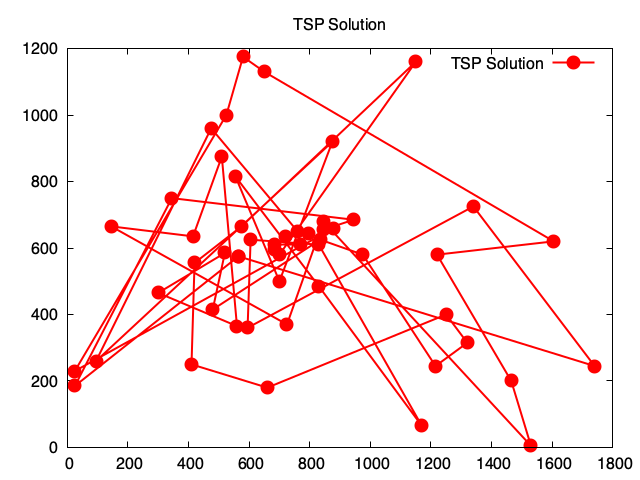
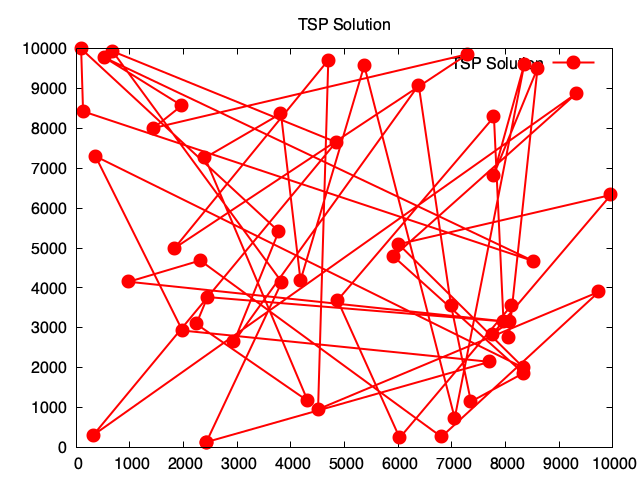
Corrections class 03/03

diff --git a/src/main.c b/src/main.c
@@ -1,8 +1,10 @@
 #include <cplex.h>
 #include <tsp_utilities.h>
 #include <sys/time.h>
+#include <chrono.h>
 
 // Function declarations
+double second();
 void free_instance(instance *inst);
 void parse_command_line(int argc, char **argv, instance *inst);
 void read_input(instance *inst);
@@ -11,13 +13,9 @@ int main(int argc, char **argv) {
     if ( argc < 2 ) { printf("Wrong command line parameters\n"); exit(1); }       
 	if ( VERBOSE >= 2 ) { for (int a = 0; a < argc; a++) printf("%s ", argv[a]); printf("\n"); }
     
-    struct timeval start, end;
-    double elapsed_time;
-
-    gettimeofday(&start, NULL); // Start time
-
+    double t1 = second(); // Start time
     instance inst;
-    if ( VERBOSE >= 4000 ) { printf("Instance created!\n"); }
+    if ( VERBOSE >= 4000 ) { printf("Instance allocated!\n"); }
     
     // Parse the command line parameters
     parse_command_line(argc, argv, &inst);
@@ -30,22 +28,23 @@ int main(int argc, char **argv) {
     }
     else {
         if ( VERBOSE >= 100) { printf("Random generator\n"); }
-        random_generator(&inst);
+        random_instance_generator(&inst);
     }
 
     // Set the solution as the sequence of nodes
-    inst.solution = (int *) malloc(inst.nnodes * sizeof(int *));
-    for (size_t i = 0; i < inst.nnodes; i++) {
-        inst.solution[i] = i;
+    inst.best_solution = (int *) malloc((inst.nnodes+1) * sizeof(int));
+    for (int i = 0; i < inst.nnodes; i++) {
+        inst.best_solution[i] = i;
     }
-    
+    inst.best_solution[inst.nnodes] = 0;
+    double t2 = second(); 
+
     // Plot the solution
-    plot_solution(&inst);
+    plot_solution(&inst, inst.best_solution);
     
 	if ( VERBOSE >= 1 ) {
-        gettimeofday(&end, NULL); // End time
-        elapsed_time = (end.tv_sec - start.tv_sec) + (end.tv_usec - start.tv_usec) / 1000000.0;
-        printf("Execution time: %f seconds\n", elapsed_time);
+        double elapsed_time = t2-t1;
+        printf("Execution time: %lf seconds\n", elapsed_time);
 	}
 
     free_instance(&inst);
@@ -59,9 +58,8 @@ int main(int argc, char **argv) {
  * @param inst instance to be freed
  */
 void free_instance(instance *inst) {
-    free(inst->xcoord);
-    free(inst->ycoord);
-    free(inst->solution);
+    free(inst->points);
+    free(inst->best_solution);
 }
 
 /**
@@ -79,32 +77,44 @@ void parse_command_line(int argc, char** argv, instance *inst) {
 	inst->seed = 0; 
 	inst->timelimit = CPX_INFBOUND;     
     inst->nnodes = 0;
-    inst->xcoord = NULL;
-    inst->ycoord = NULL;
-    inst->solution = NULL;
+    inst->points = NULL;
+    inst->best_solution = NULL;
     
     int help = 0; if ( argc < 1 ) help = 1;// if no parameters, print help
     int node_flag = 1, number_nodes = 0;
 	for ( int i = 1; i < argc; i++ ) { 
         if ( strcmp(argv[i],"-file") == 0 ) { strcpy(inst->input_file,argv[++i]); node_flag = 0; continue; }
-		if ( strcmp(argv[i],"-input") == 0 ) { strcpy(inst->input_file,argv[++i]); continue; }
-		if ( strcmp(argv[i],"-f") == 0 ) { strcpy(inst->input_file,argv[++i]); continue; } 	
+		if ( strcmp(argv[i],"-input") == 0 ) { strcpy(inst->input_file,argv[++i]); node_flag = 0; continue; }
+		if ( strcmp(argv[i],"-f") == 0 ) { strcpy(inst->input_file,argv[++i]); node_flag = 0; continue; } 	
 		if ( strcmp(argv[i],"-time_limit") == 0 ) { inst->timelimit = atof(argv[++i]); continue; }
 		if ( strcmp(argv[i],"-seed") == 0 ) { inst->seed = abs(atoi(argv[++i])); continue; }
-        if ( strcmp(argv[i],"-nodes") == 0 ) { number_nodes = abs(atoi(argv[++i])); continue; }
+        if ( strcmp(argv[i],"-nodes") == 0 ) { 
+            if (++i >= argc) {
+                print_error("Error: Missing value for -nodes\n");
+            }
+            number_nodes = abs(atoi(argv[i])); 
+            continue;
+        }
         if ( strcmp(argv[i],"-help") == 0 ) { help = 1; continue; }
 		if ( strcmp(argv[i],"--help") == 0 ) { help = 1; continue; } 
         help = 1;
     }
 
-    if (node_flag) { inst->nnodes = number_nodes; }
+    if (node_flag) { 
+        if (number_nodes <= 0) { print_error("Number of nodes not defined\n"); }
+        else{
+            inst->nnodes = number_nodes; 
+        }
+    }
 
     if ( help || (VERBOSE >= 10) ) {
 		printf("\n\nAvailable parameters-------------------------------------------------------------------------\n");
 		printf("-file %s\n", inst->input_file); 
 		printf("-time_limit %lf\n", inst->timelimit); 
 		printf("-seed %d\n", inst->seed); 
-        printf("-nodes %d\n", inst->nnodes);
+        if (node_flag){
+            printf("-nodes %d\n", inst->nnodes);
+        }
 		printf("\nenter -help or --help for help\n");
 		printf("----------------------------------------------------------------------------------------------\n\n");
 	}        
@@ -159,9 +169,8 @@ void read_input(instance *inst) {
             token1 = strtok(NULL, " :");
             inst->nnodes = atoi(token1);
             if ( VERBOSE >= 1000 ) { printf("DIMENSION: %d\n", inst->nnodes); fflush(NULL); }
-            inst->xcoord = (double *) malloc(inst->nnodes * sizeof(double));
-            inst->ycoord = (double *) malloc(inst->nnodes * sizeof(double));
-            inst->solution = (int *) malloc(inst->nnodes * sizeof(int));    
+            inst->points = (point*)malloc(inst->nnodes * sizeof(point));
+            inst->best_solution = (int *) malloc(inst->nnodes * sizeof(int));    
             continue; 
         }
 
@@ -188,8 +197,8 @@ void read_input(instance *inst) {
             token1 = strtok(NULL, " :");
             token2 = strtok(NULL, " :");
             if ( VERBOSE >= 10000) { printf("Coordinates: x: %s, y: %s\n", token1, token2); fflush(NULL); }
-            inst->xcoord[i] = atof(token1);
-            inst->ycoord[i] = atof(token2);
+            inst->points[i].x = atof(token1);
+            inst->points[i].y = atof(token2);
             continue;
         }
 

diff --git a/src/tsp_utilities.c b/src/tsp_utilities.c
@@ -6,25 +6,20 @@
  */
 void print_error(const char *err) { printf("\n\n ERROR: %s \n\n", err); fflush(NULL); exit(1); } 
 
+double random01() { return ((double) rand() / RAND_MAX); }
+
 /**
  * Generate random coordinates for the nodes of the TSP instance
  * @param inst instance to store the coordinates
  */
-void random_generator(instance *inst) {
+void random_instance_generator(instance *inst) {
     srand(inst->seed);
-    int NODE_NUMBER = inst->nnodes;
-    inst->xcoord = (double *) malloc(NODE_NUMBER * sizeof(double));
-    inst->ycoord = (double *) malloc(NODE_NUMBER * sizeof(double));
-    inst->solution = (int *) malloc(NODE_NUMBER * sizeof(int *));
+    inst->points = (point*)malloc(inst->nnodes * sizeof(point));
 
-    if ( VERBOSE >= 1000) { printf("Number of Nodes: %d\n", NODE_NUMBER); fflush(NULL); };
-    for (size_t i = 0; i < NODE_NUMBER; i++){
-        inst->xcoord[i] = round(rand() % NODE_NUMBER);
-        inst->ycoord[i] = round(rand() % NODE_NUMBER);
-    }
-
-    for (int i = 0; i < 10; i++) {
-        inst->solution[i] = i;
+    if ( VERBOSE >= 1000) { printf("Number of Nodes: %d\n", inst->nnodes); fflush(NULL); };
+    for (int i = 0; i < inst->nnodes; i++){
+        inst->points[i].x = random01() * MAX_BOUNDARY;
+        inst->points[i].y = random01() * MAX_BOUNDARY;
     }
     
     return;
@@ -34,7 +29,7 @@ void random_generator(instance *inst) {
  * Plot the solution using gnuplot and save the output as a PNG file
  * @param inst instance with the solution to be plotted
  */
-void plot_solution(instance *inst) {
+void plot_solution(instance *inst, int* solution) {
     FILE *gnuplot = popen("gnuplot -persist", "w");
     if (gnuplot == NULL) { 
         printf("Error opening gnuplot\n");
@@ -53,13 +48,13 @@ void plot_solution(instance *inst) {
     fprintf(gnuplot, "plot '-' with linespoints ls 1 title 'TSP Solution'\n");
 
     // Loop through the solution sequence
-    for (int i = 0; i < inst->nnodes; i++) {
-        int node = inst->solution[i];  // Get the node index
-        fprintf(gnuplot, "%lf %lf\n", inst->xcoord[node], inst->ycoord[node]);
+    for (int i = 0; i < (inst->nnodes + 1); i++) {
+        int node = solution[i];  // Get the node index
+        fprintf(gnuplot, "%lf %lf\n", inst->points[node].x, inst->points[node].y);
     }
 
     // Close the tour by adding the first node at the end
-    fprintf(gnuplot, "%lf %lf\n", inst->xcoord[inst->solution[0]], inst->ycoord[inst->solution[0]]);
+    //fprintf(gnuplot, "%lf %lf\n", inst->xcoord[solution[0]], inst->ycoord[solution[0]]);
 
     // End data input
     fprintf(gnuplot, "e\n");

diff --git a/src/chrono.c b/src/chrono.c
@@ -1,0 +1,44 @@
+#include <chrono.h>
+
+#ifdef _WIN32
+
+double second()
+{
+	return ((double)clock()/(double)CLK_TCK);
+}
+
+#else 
+
+#include <sys/resource.h>
+
+#if defined(__MACH__) && defined(__APPLE__)
+#include <mach/mach.h>
+#include <mach/mach_time.h>
+#endif
+	
+double myWallTime()
+{
+#ifdef __APPLE__
+	static double timeConvert = 0.0;
+	if ( timeConvert == 0.0 )
+	{
+		mach_timebase_info_data_t timeBase;
+		mach_timebase_info(&timeBase);
+		timeConvert = (double)timeBase.numer / (double)timeBase.denom / 1000000000.0;
+	}
+	return mach_absolute_time() * timeConvert;
+#else
+	struct timespec ts;
+	clock_gettime(CLOCK_MONOTONIC, &ts);
+	return (double)ts.tv_sec + 1.0e-9*((double)ts.tv_nsec);
+#endif // __APPLE__
+}
+
+double second()
+{
+	double t = myWallTime();
+	return(t);
+}
+
+#endif
+

diff --git a/include/tsp_utilities.h b/include/tsp_utilities.h
@@ -7,7 +7,16 @@
 #include <string.h> 
 
 // Verbosity level
-#define VERBOSE	        100
+#define VERBOSE 100
+#define MAX_BOUNDARY 10000
+
+/**
+ * Point structure
+ */
+typedef struct {
+    double x;
+    double y;
+} point;
 
 /**
  * TSP instance structure 
@@ -17,13 +26,13 @@ typedef struct {
     int seed;
     double timelimit;
     char input_file[256];
-    double *xcoord;
-    double *ycoord;
-    int* solution;
+    point* points;
+    int* best_solution;
 } instance;
 
-void random_generator(instance *inst);
-void plot_solution(instance *inst);
+double random01();
+void random_instance_generator(instance *inst);
+void plot_solution(instance *inst, int* solution);
 void print_error(const char *err); 
 
 #endif // TSP_UTILITIES_H

diff --git a/include/chrono.h b/include/chrono.h
@@ -1,0 +1,10 @@
+#ifndef CHRONO_H
+#define CHRONO_H
+
+#include <time.h>
+#include <stdlib.h>
+
+double second();  
+
+
+#endif // CHRONO_H
